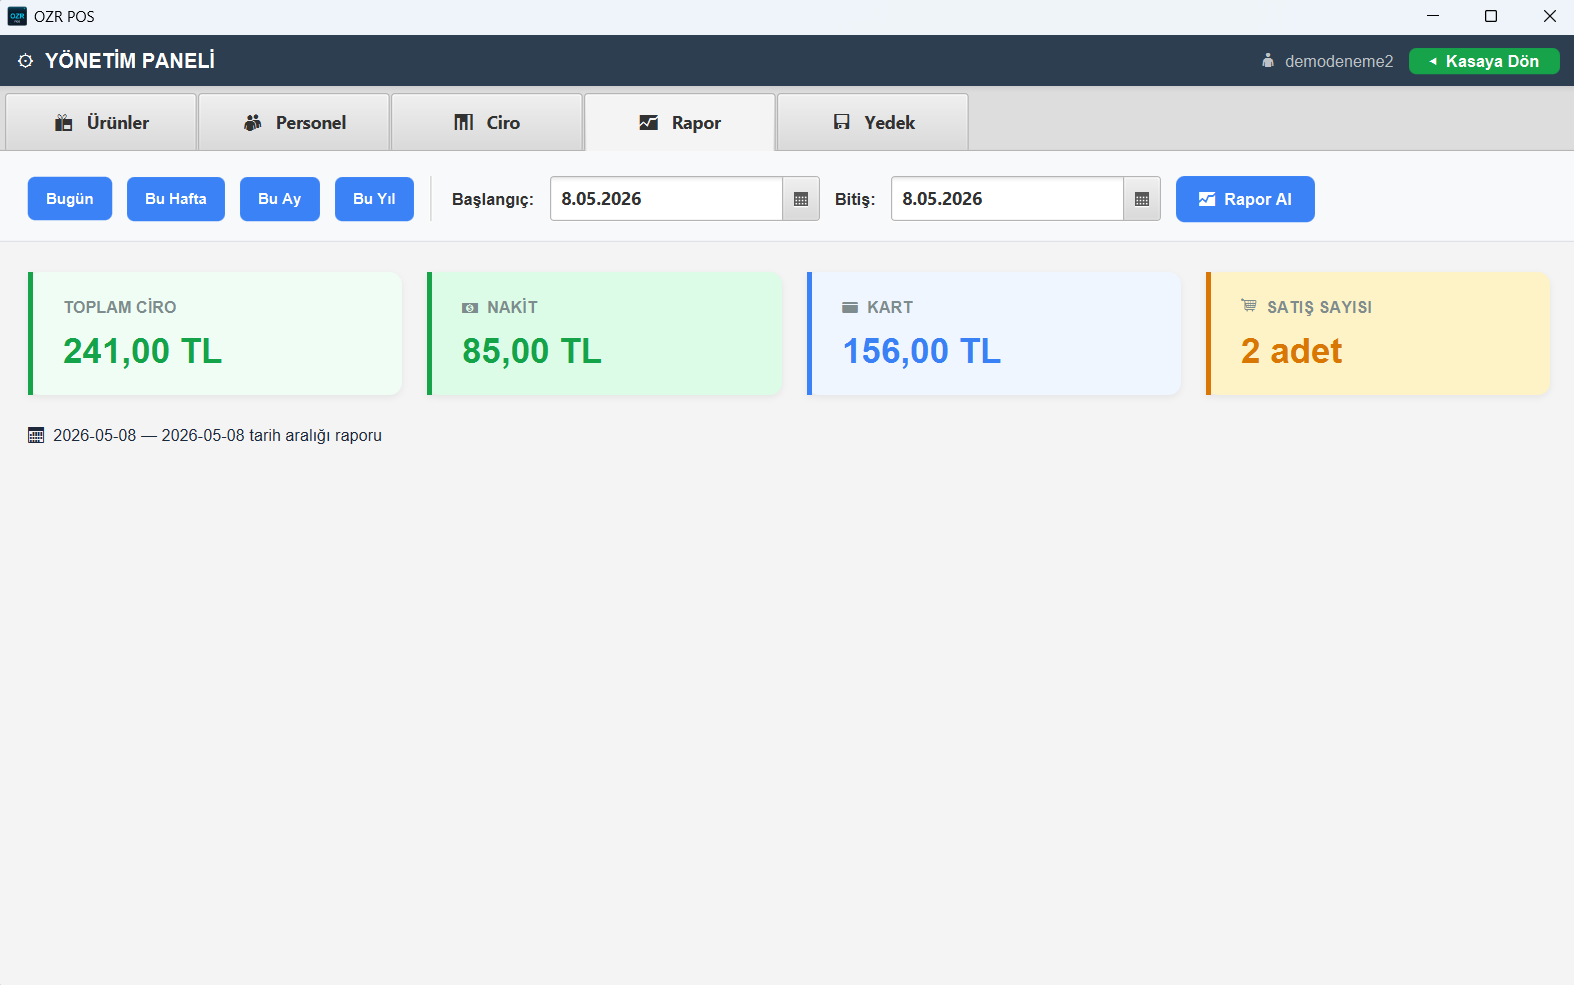
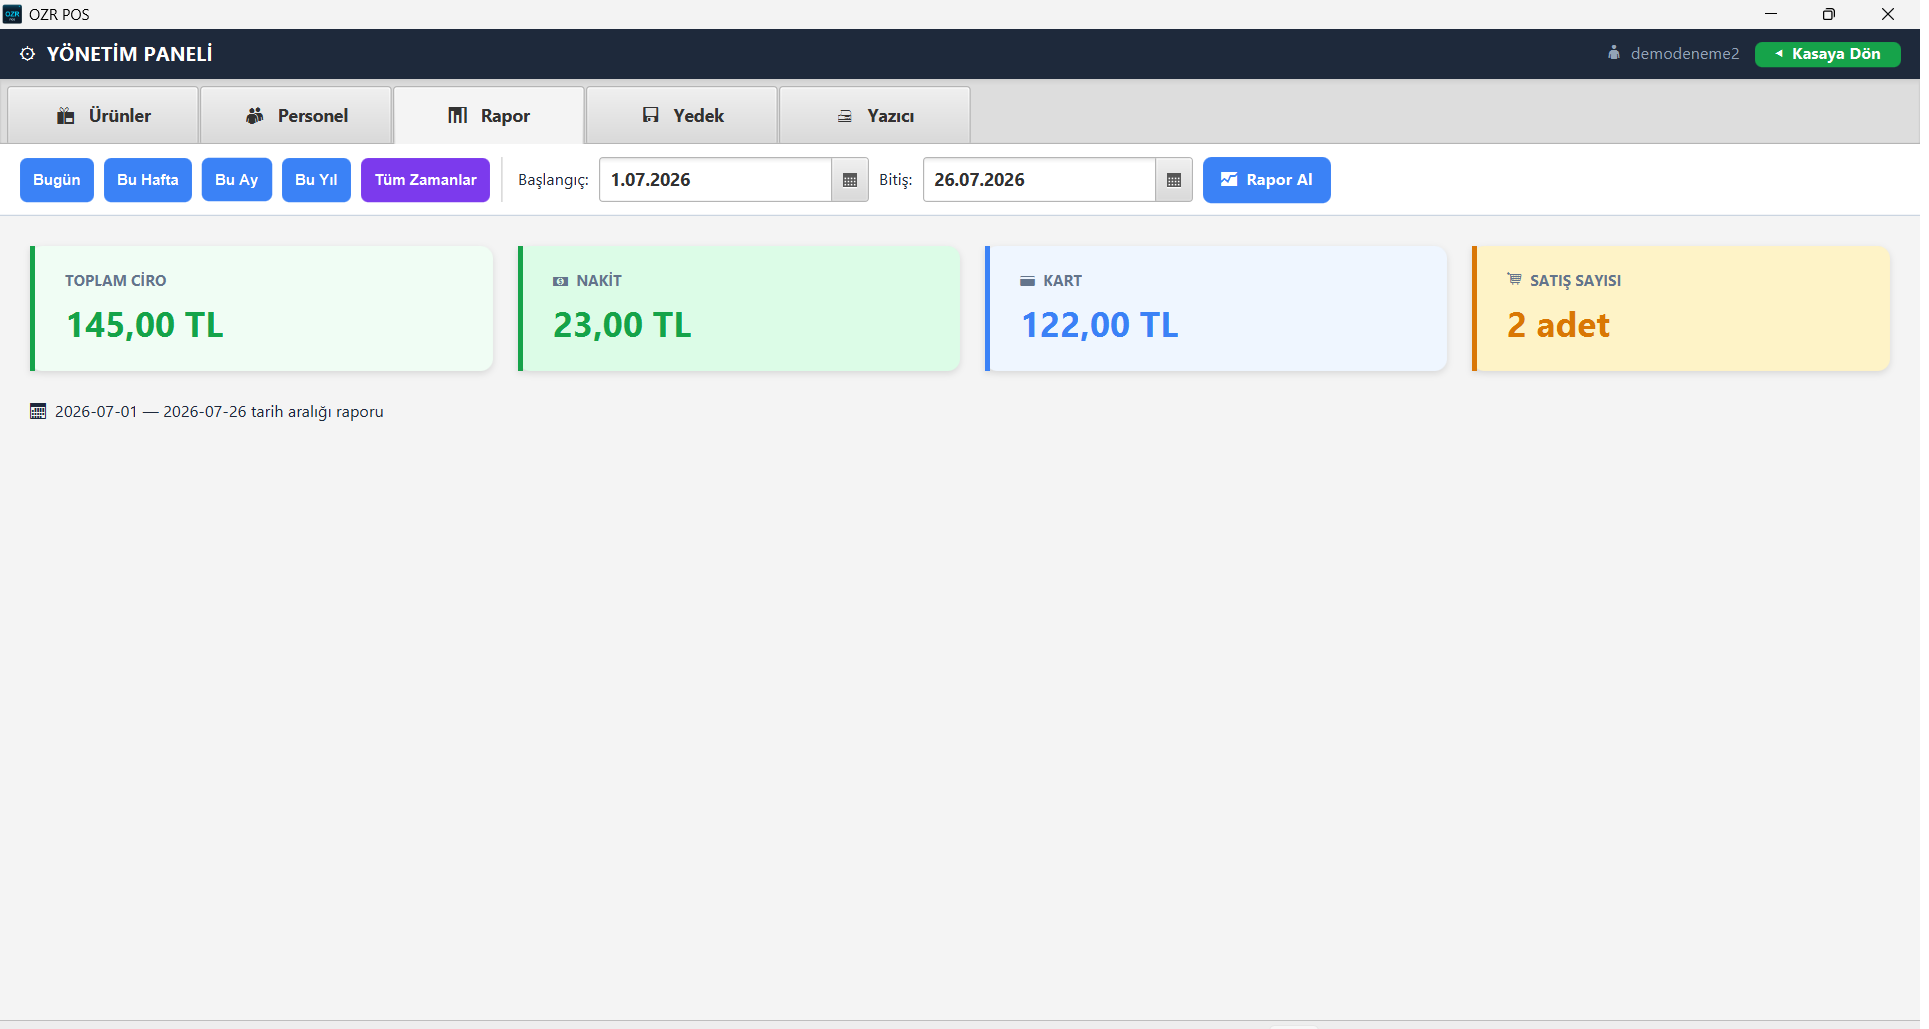
site: ekran görüntülerini v2.3.7'ye güncelle
satis/urunler/rapor/yedek/giris tazelendi; guncelleme.png (eski surum
numaralari gosteriyordu) yerine ilk-kurulum.png (demo baslatma akisi)
eklendi.

Changed region(s): [[0.0, 0.0, 1.0, 0.4569]]

diff --git a/index.html b/index.html
@@ -151,8 +151,8 @@
         <div class="ekran-adi">🔑 Güvenli Giriş</div>
       </div>
       <div class="ekran-kart">
-        <img src="assets/img/guncelleme.png" alt="Otomatik güncelleme ekranı" loading="lazy">
-        <div class="ekran-adi">🔄 Otomatik Güncelleme</div>
+        <img src="assets/img/ilk-kurulum.png" alt="İlk kurulum ve demo başlatma ekranı" loading="lazy">
+        <div class="ekran-adi">🚀 5 Dakikada Kurulum</div>
       </div>
     </div>
   </div>
